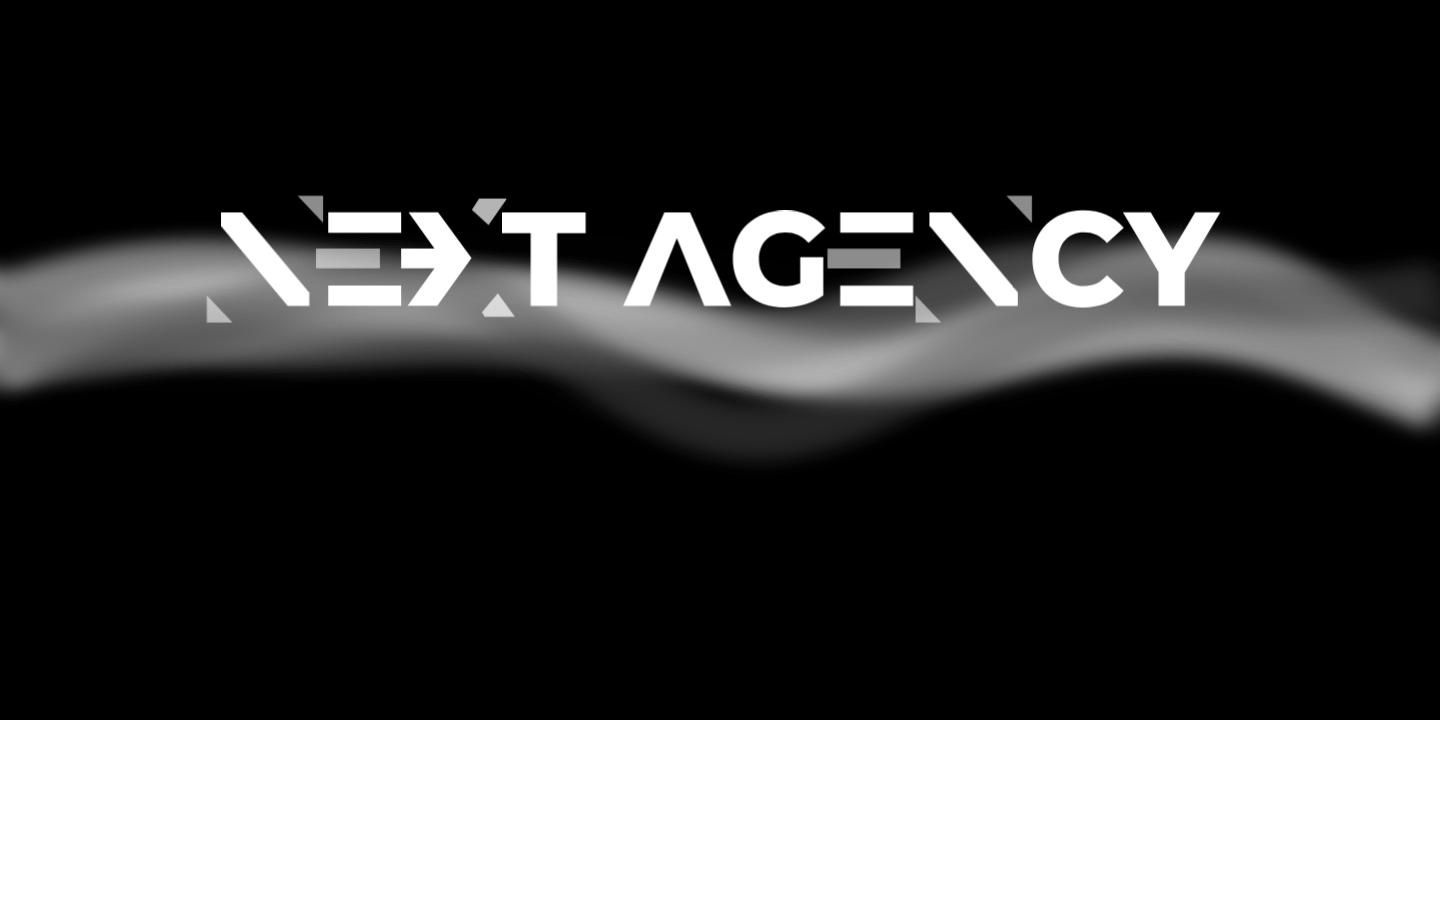
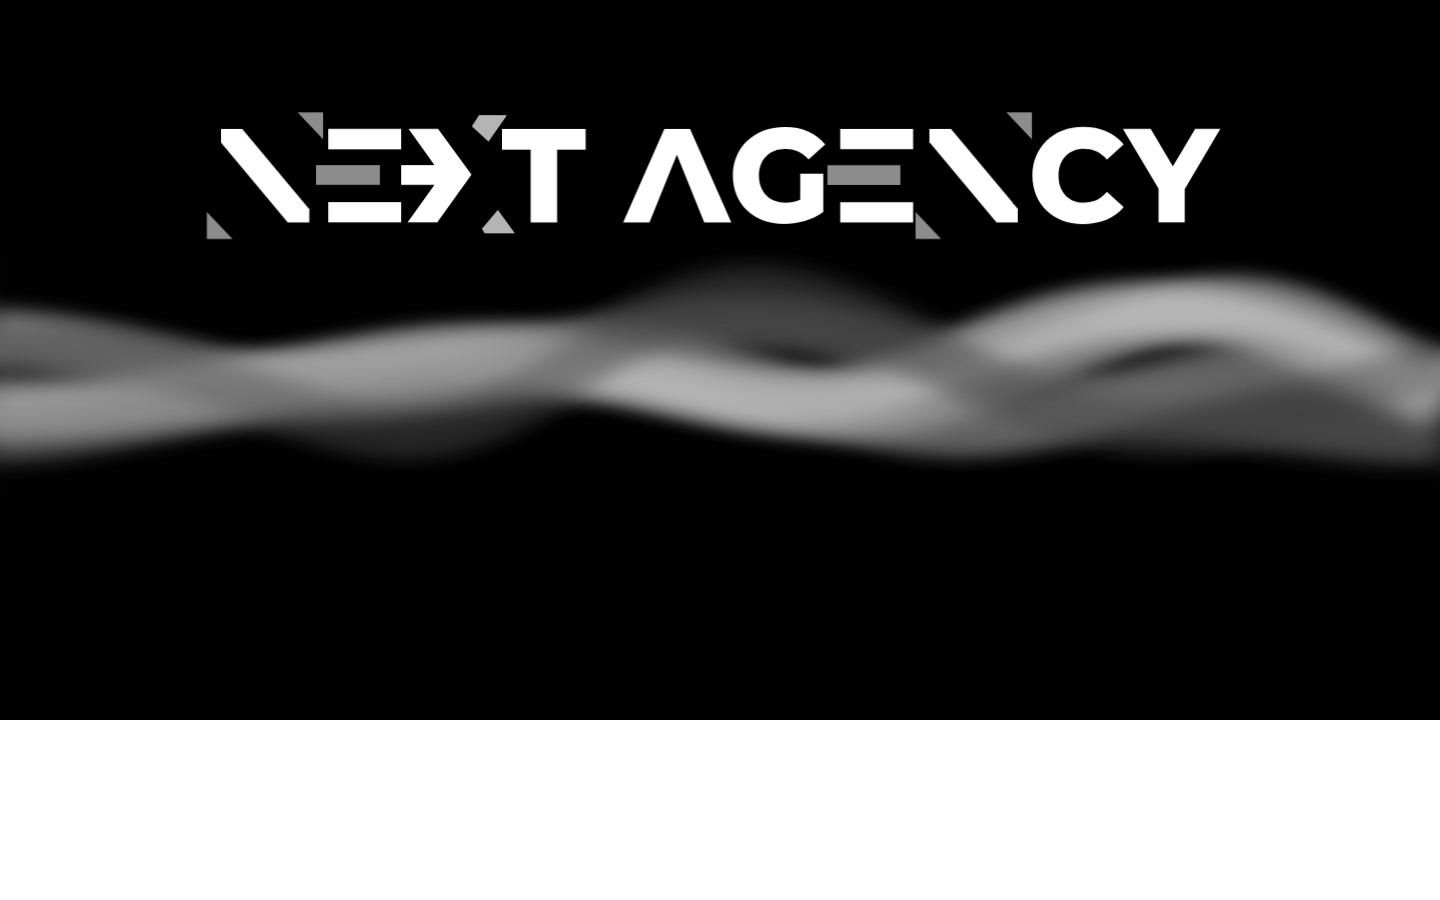
feat: showreel wordmark starts hidden above the frame and drops in on scroll
ThreadRig-Thread: main

Changed region(s): [[0.0, 0.1244, 1.0, 0.5289]]

diff --git a/src/components/hero/HeroMedia.tsx b/src/components/hero/HeroMedia.tsx
@@ -26,7 +26,8 @@ const FRAGMENT_DISTANCE = 30;
 // Wordmark rests at this fraction of its full gutter width and grows to 1 on scroll.
 const WORDMARK_REST_SCALE = 0.38;
 // Where the wordmark's centre starts, as a fraction of the frame height from its top.
-const WORDMARK_REST_TOP = 0.16;
+// Negative = above the frame (clipped by overflow), so it is hidden until it drops in.
+const WORDMARK_REST_TOP = -0.12;
 const WAVE_COLORS = ["#ffffff", "#d4d4d4", "#a3a3a3", "#737373", "#404040"];
 function fragmentOffset(id: string, distance: number) {
   const [x, y] = FRAGMENT_DIRECTIONS[id];
@@ -73,10 +74,11 @@ export function HeroMedia({ copy }: { copy: HeroContent }) {
           // The frame stays full-bleed: shrinking it would cancel out the wordmark's growth.
           .fromTo(
             inner,
-            { y: topOffset },
+            { y: topOffset, autoAlpha: 0 },
             { y: 0, duration: 1, ease: "power1.inOut" },
             0,
           )
+          .to(inner, { autoAlpha: 1, duration: 0.3, ease: "none" }, 0.08)
           .to(wordmark, { scale: 1, duration: 1, ease: "power1.inOut" }, 0)
           .to(
             fragments,
